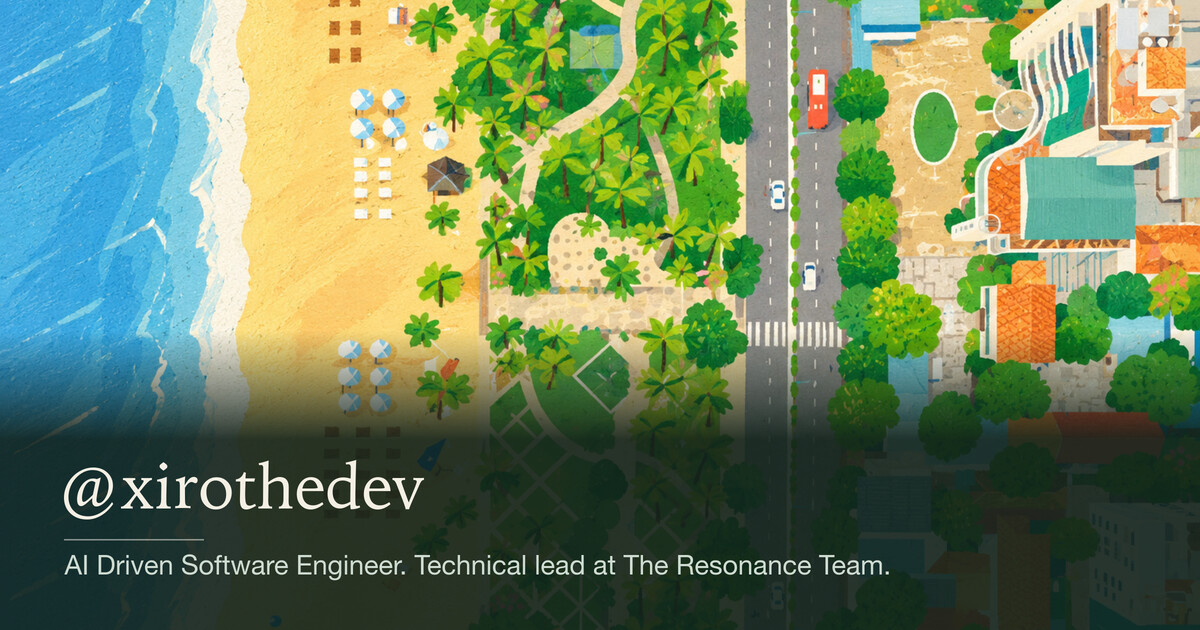
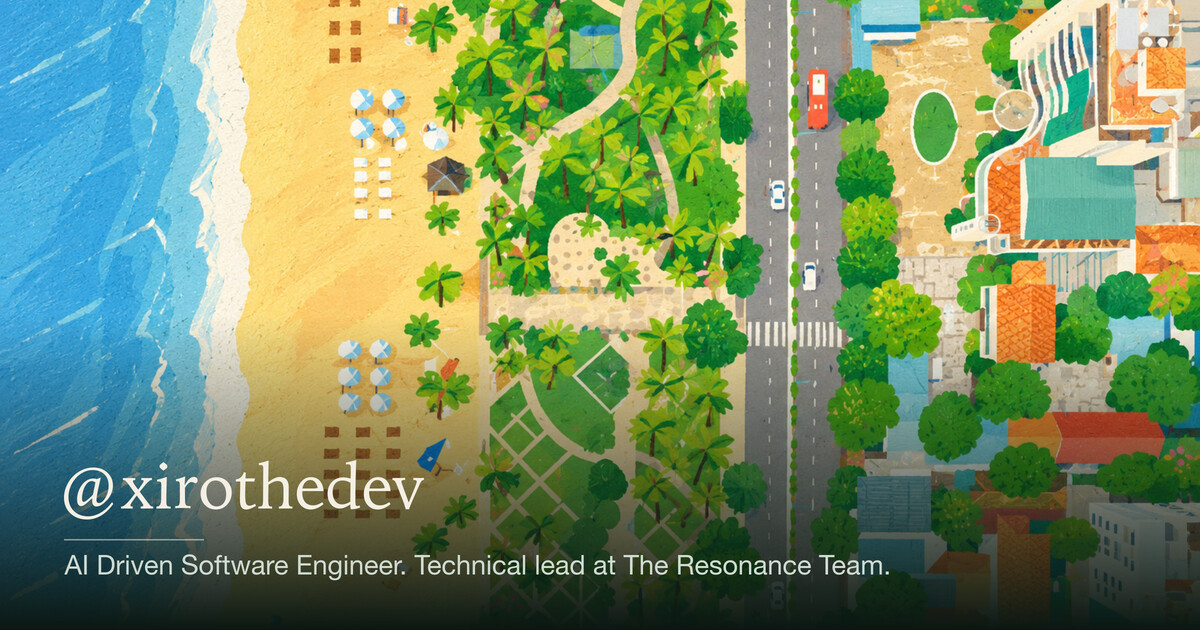
fix: deepen the OG scrim to the vertical middle
- Replace the bottom band and short fade with one linear scrim
- Start it at the image middle and end on opaque deep green

diff --git a/DESIGN.md b/DESIGN.md
@@ -80,7 +80,7 @@ The Home hero is one WebP drawn as an SVG scene. A **plane** is a full-canvas co
 
 ### OG card
 
-The 1200×630 social card is a crop of the supplied landscape art with a dark caption band at the bottom. It shows `@xirothedev`, a hairline rule, and the tagline. The text is baked in, so rebuild with `bun run --cwd apps/web og:build` after a copy change. The card is a static JPEG at `src/app/opengraph-image.jpg`; `opengraph-image.alt.txt` carries the alt text.
+The 1200×630 social card is a crop of the supplied landscape art with one linear scrim from the vertical middle to the bottom edge. It shows `@xirothedev`, a hairline rule, and the tagline. The text is baked in, so rebuild with `bun run --cwd apps/web og:build` after a copy change. The card is a static JPEG at `src/app/opengraph-image.jpg`; `opengraph-image.alt.txt` carries the alt text.
 
 ## 4. Icon vocabulary
 
